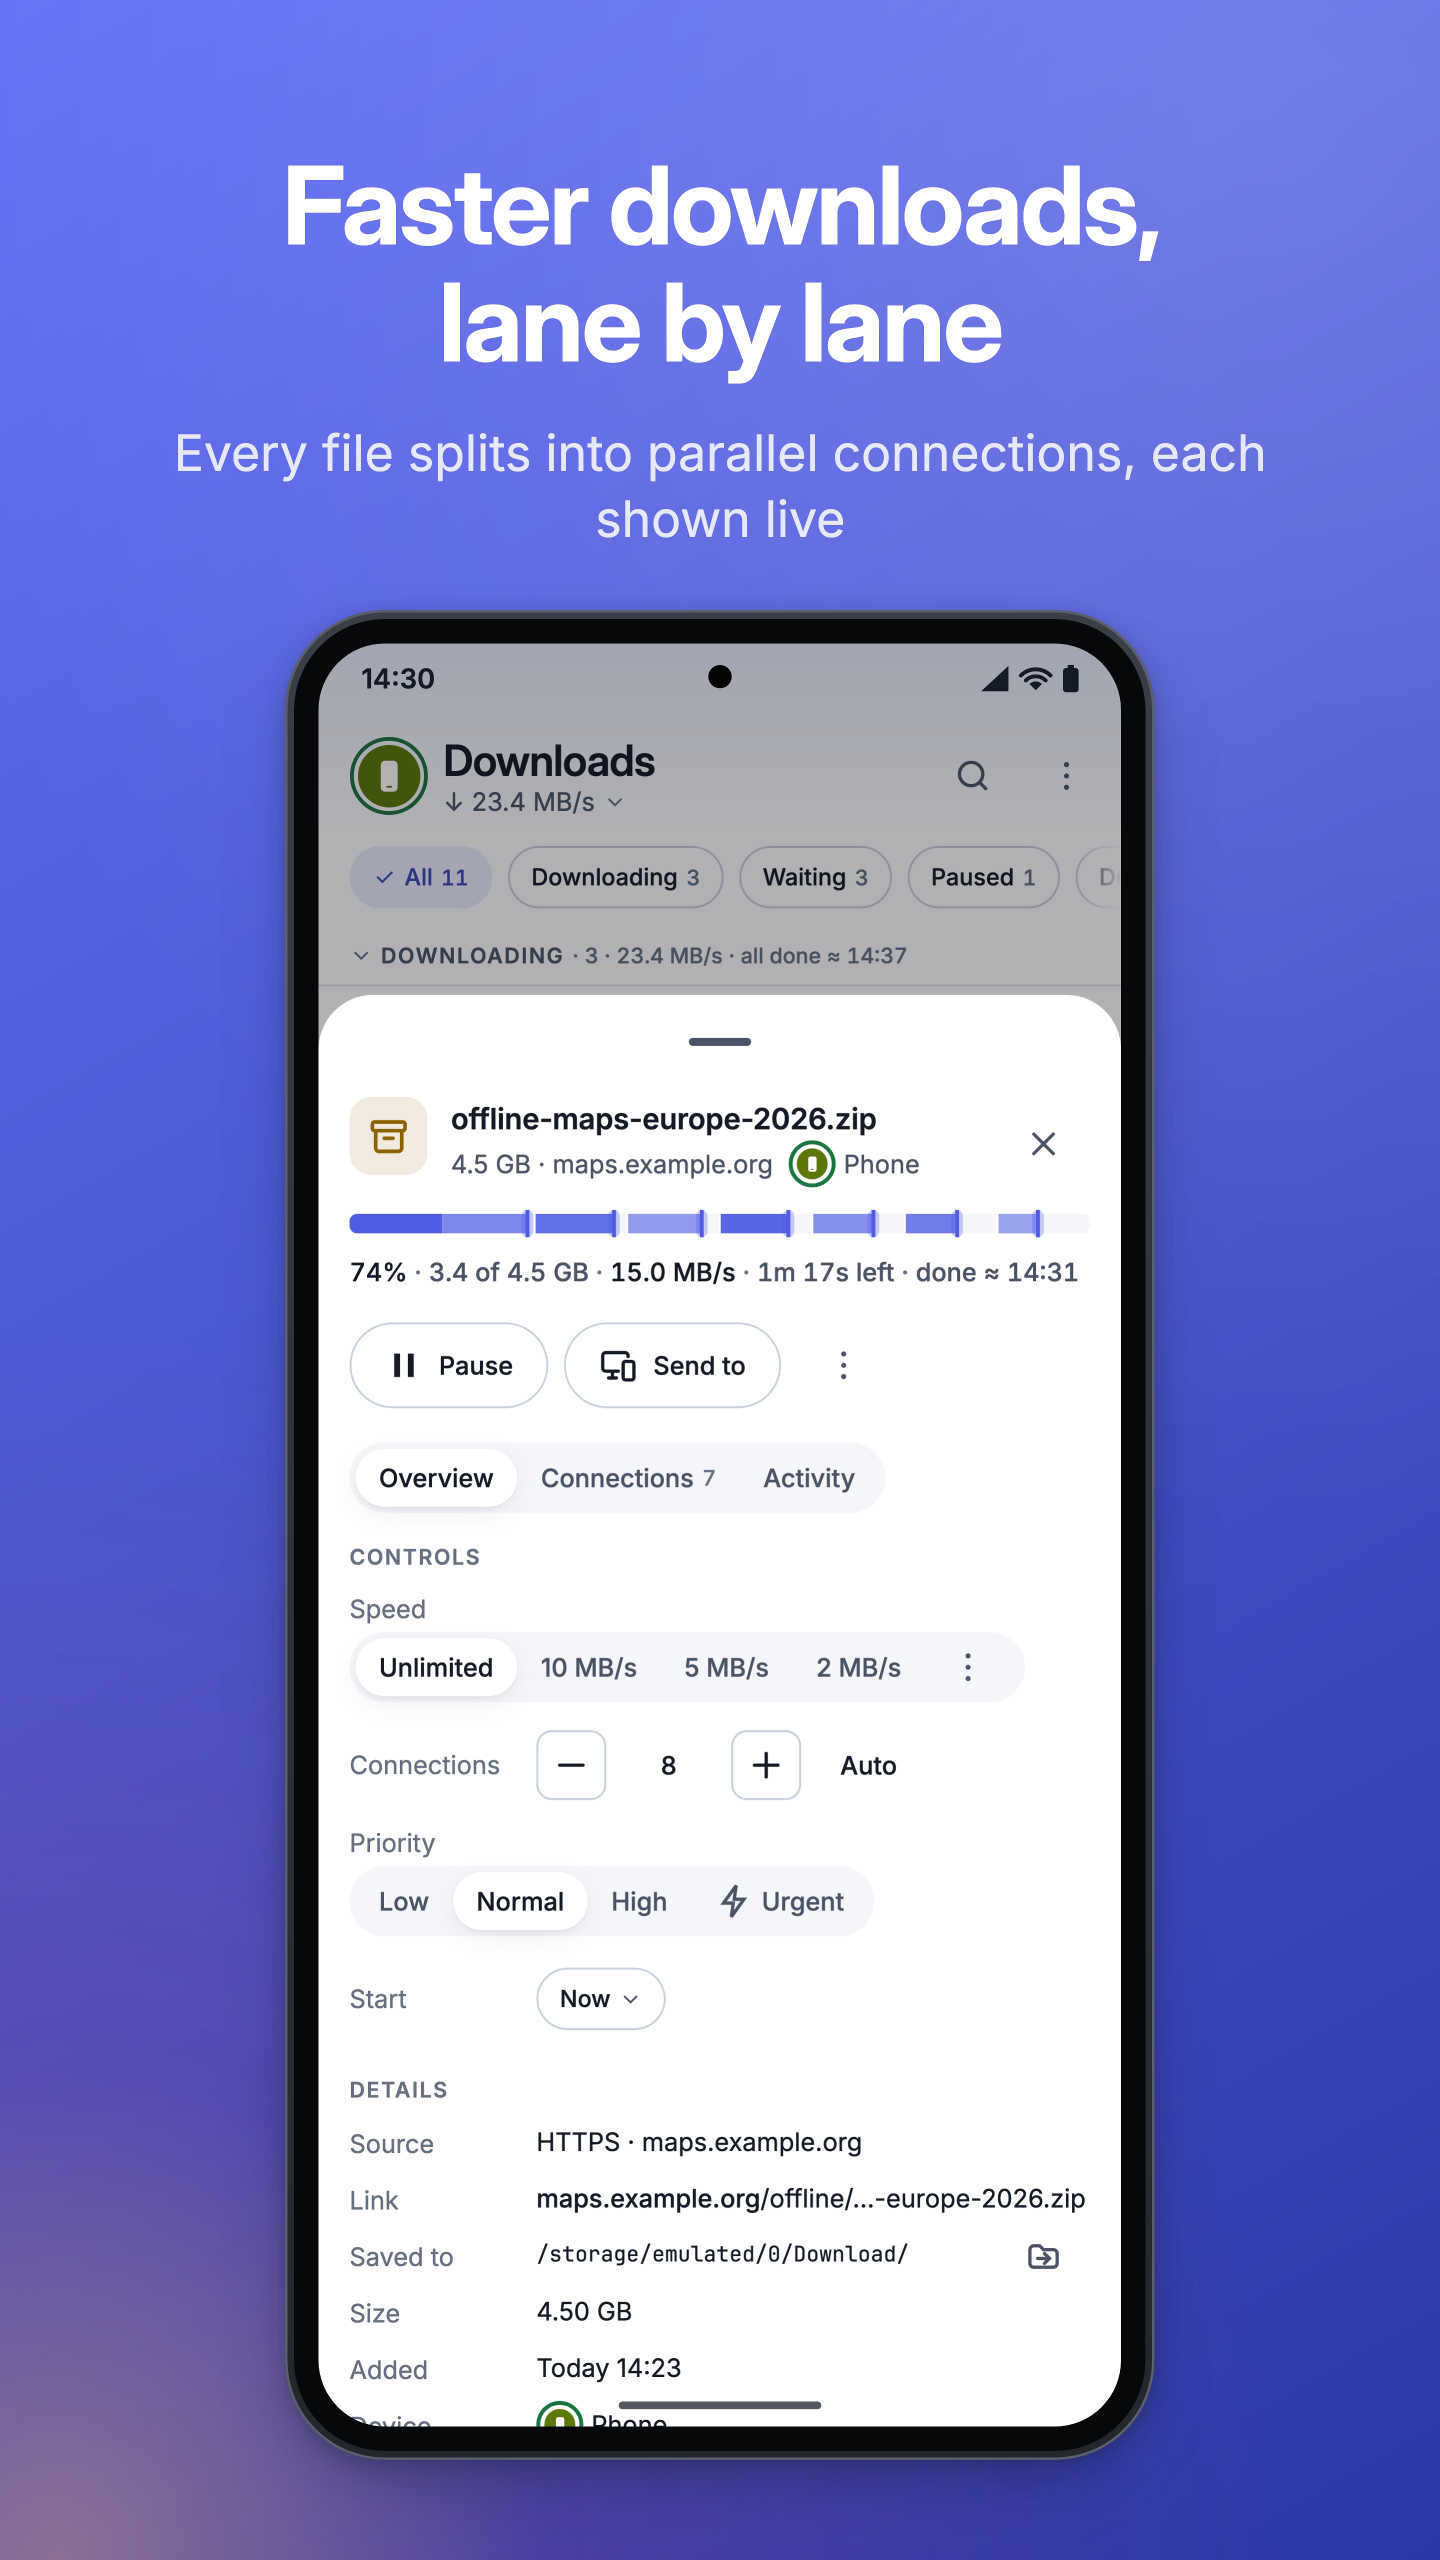
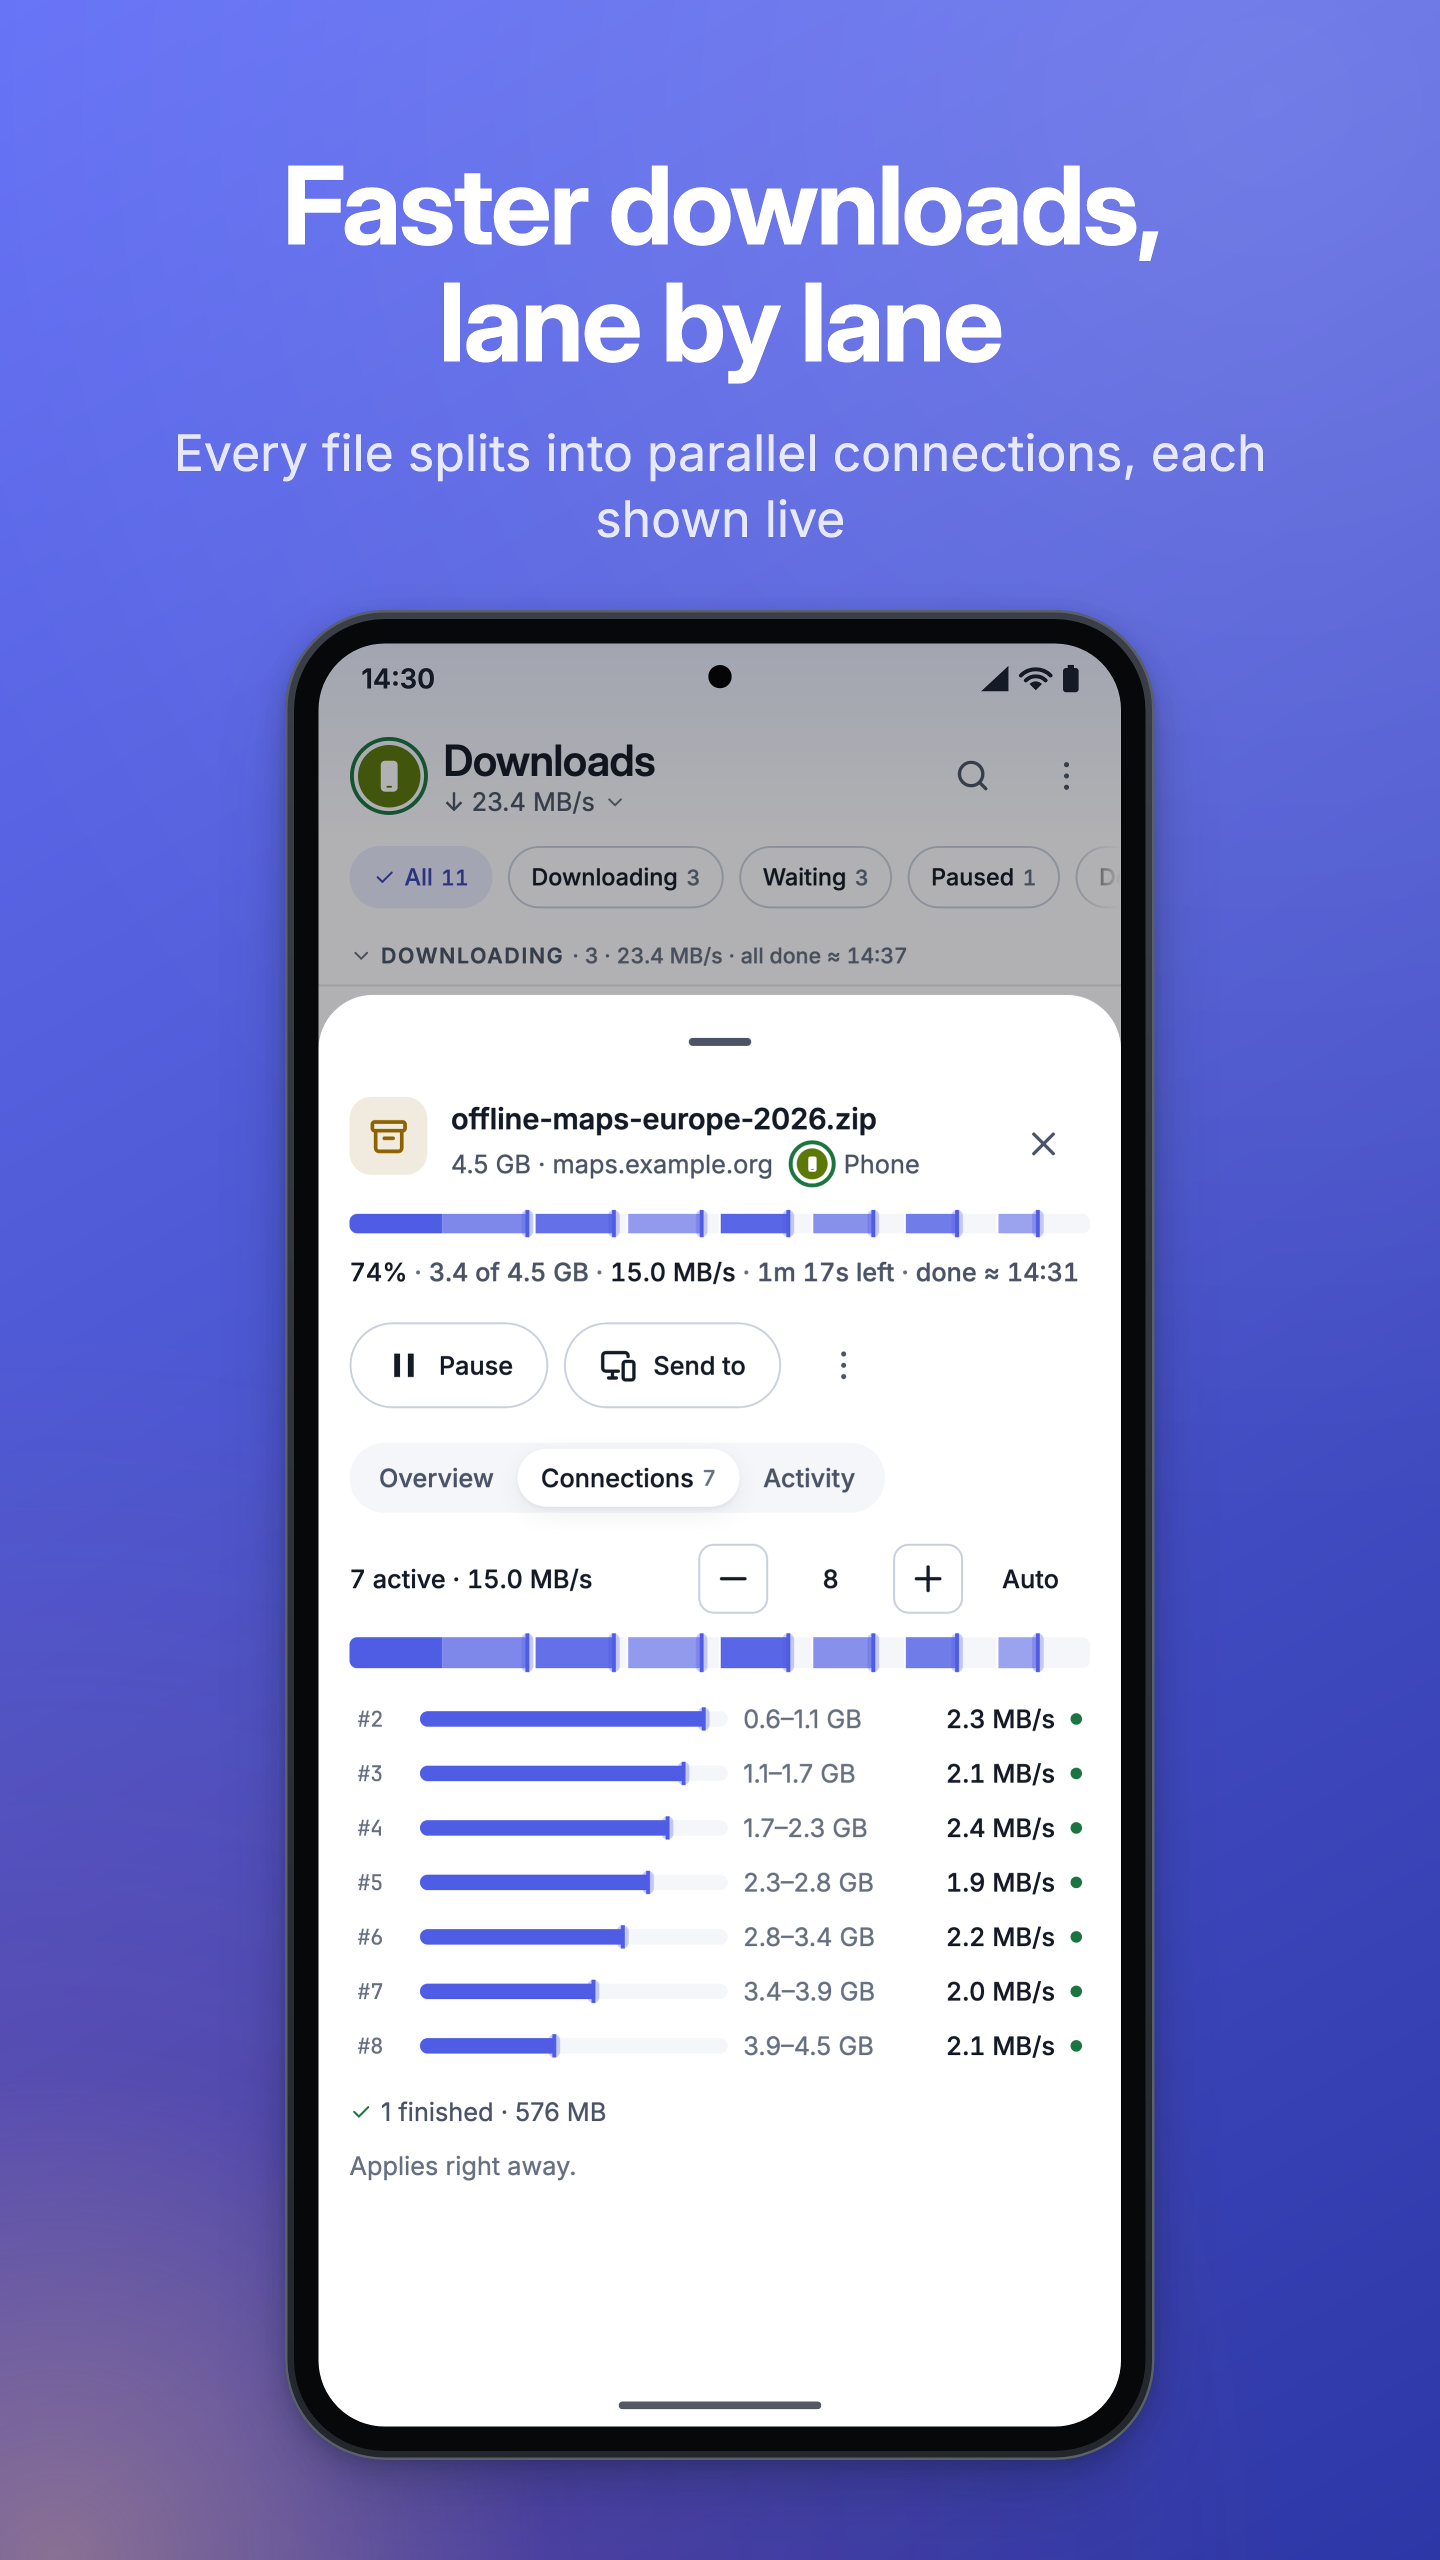
fix(store): open the inspector's Connections tab in the Connections screenshots
Clicking the text "Connections" found the Connections page in the navigation first, since
it was added, so tablets showed the empty page and phones stayed on Overview. The scene now
asks for the tab as the connections grid's Show task does.

diff --git a/app/shared/src/jvmTest/kotlin/com/linroid/ketch/app/snapshot/StoreScreenshots.kt b/app/shared/src/jvmTest/kotlin/com/linroid/ketch/app/snapshot/StoreScreenshots.kt
@@ -204,9 +204,10 @@ private class ShotScope(
   /** Shows [StoreData.MAPS] in the inspector on its Connections tab. */
   suspend fun showConnections() {
     feedLanes()
-    state.inspect(environment.phoneKey(StoreData.MAPS_ID))
+    // As the connections grid's Show task does; clicking the text "Connections" would find the
+    // Connections page in the navigation first.
+    state.showConnections(environment.phoneKey(StoreData.MAPS_ID), segments = true)
     scene.settle()
-    scene.clickOnText(CONNECTIONS)
   }
 
   /** Shows the Devices page after a few seconds of every device's speed. */
@@ -867,8 +868,6 @@ private val ADD_LINKS = StoreData.LinkSizes.keys.joinToString("\n")
 
 /** The Discover result picked in its screenshot. */
 private const val STORE_DISCOVER_PICK = "https://maps.example.org/offline/alps-topo-2026.zip"
-
-private const val CONNECTIONS = "Connections"
 
 /** Where the half-open inspector sheet is dragged by, and held at, as fractions of the screen. */
 private const val SHEET_GRIP_X = 0.77f
